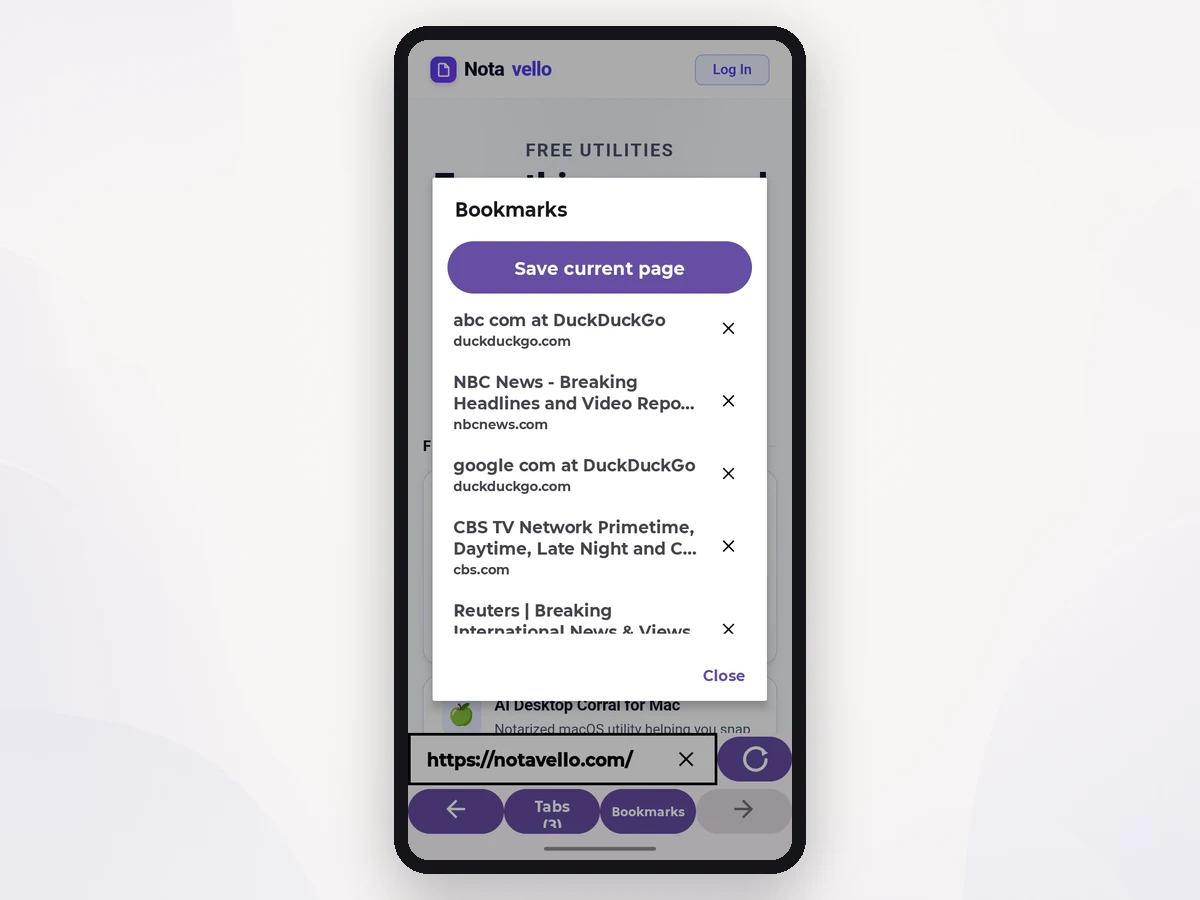
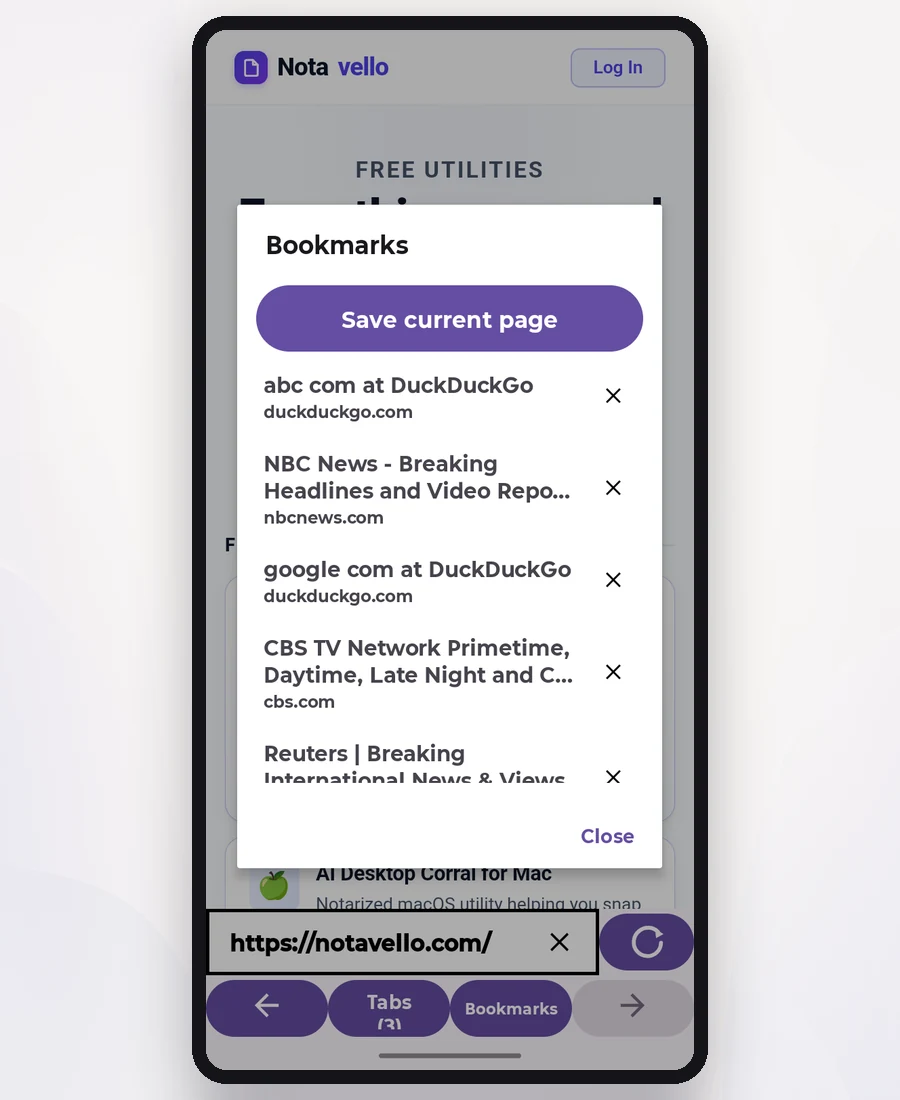
Improve Koga page copy and screenshots

diff --git a/tools/koga/index.html b/tools/koga/index.html
@@ -23,8 +23,9 @@
     <nav aria-label="Koga navigation">
       <a href="#features">Features</a>
       <a href="#screenshots">Screenshots</a>
-      <a href="privacy.html">Privacy</a>
-      <a href="support.html">Support</a>
+      <a href="/tools/koga/privacy.html">Privacy</a>
+      <a href="/tools/koga/support.html">Support</a>
+      <a href="/pages/contact.html">Contact</a>
     </nav>
   </header>
 
@@ -33,11 +34,7 @@
       <div class="hero-copy">
         <p class="eyebrow">An Android browser from Notavello</p>
         <h1>Simple<br>browsing.</h1>
-        <p class="lede">
-          Koga is a clean, straightforward browser with tabs, bookmarks,
-          downloads, file uploads, and a compact interface that leaves more
-          room for the web.
-        </p>
+        <p class="lede">Koga is a clean, straightforward browser that keeps tabs, bookmarks, downloads, uploads, and navigation controls easy to reach.</p>
 
         <div class="actions">
           <a class="button primary disabled" href="#" aria-disabled="true">Coming soon</a>
@@ -63,7 +60,7 @@
       <div class="feature-grid">
         <article>
           <h3>Compact interface</h3>
-          <p>A space-saving address row keeps more of every webpage visible.</p>
+          <p>The address field and page controls stay together in one clear row, making everyday navigation easier.</p>
         </article>
 
         <article>
@@ -92,38 +89,48 @@
 
       <div class="shot-grid">
         <figure>
-          <img src="assets/screenshots/koga-browsing.webp"
-            alt="Koga browsing DuckDuckGo with the address field, Refresh button, and bottom navigation visible"
-            width="1200" height="900" loading="lazy">
+          <a class="shot-link" href="assets/screenshots/koga-browsing.webp" target="_blank" rel="noopener" aria-label="Open full-size compact browsing screenshot">
+            <img src="assets/screenshots/koga-browsing.webp"
+              alt="Koga browsing DuckDuckGo with the address field, Refresh button, and complete bottom navigation visible"
+              width="900" height="1100">
+          </a>
           <figcaption>Compact browsing</figcaption>
         </figure>
 
         <figure>
-          <img src="assets/screenshots/koga-tabs.webp"
-            alt="Koga tab manager showing three open tabs and the New tab control"
-            width="1200" height="900" loading="lazy">
+          <a class="shot-link" href="assets/screenshots/koga-tabs.webp" target="_blank" rel="noopener" aria-label="Open full-size tab management screenshot">
+            <img src="assets/screenshots/koga-tabs.webp"
+              alt="Koga tab manager showing three open tabs, close controls, and the New tab button"
+              width="900" height="1100">
+          </a>
           <figcaption>Simple tab management</figcaption>
         </figure>
 
         <figure>
-          <img src="assets/screenshots/koga-bookmarks.webp"
-            alt="Koga bookmarks panel showing saved pages and bookmark controls"
-            width="1200" height="900" loading="lazy">
+          <a class="shot-link" href="assets/screenshots/koga-bookmarks.webp" target="_blank" rel="noopener" aria-label="Open full-size bookmarks screenshot">
+            <img src="assets/screenshots/koga-bookmarks.webp"
+              alt="Koga bookmarks panel showing saved pages, remove controls, and Save current page"
+              width="900" height="1100">
+          </a>
           <figcaption>Bookmarks close at hand</figcaption>
         </figure>
       </div>
 
       <figure class="wide-shot">
-        <img src="assets/screenshots/koga-landscape.webp"
-          alt="Koga Browser in landscape with its compact single-row address controls and full bottom navigation"
-          width="1400" height="850" loading="lazy">
+        <a class="shot-link" href="assets/screenshots/koga-landscape.webp" target="_blank" rel="noopener" aria-label="Open full-size landscape screenshot">
+          <img src="assets/screenshots/koga-landscape.webp"
+            alt="Koga Browser in landscape with its single-row address controls and complete bottom navigation"
+            width="1400" height="850">
+        </a>
         <figcaption>Made for portrait and landscape</figcaption>
       </figure>
 
       <figure class="overview-shot">
-        <img src="assets/screenshots/koga-overview.webp"
-          alt="Overview of Koga browsing, tabs, bookmarks, and landscape layouts"
-          width="1600" height="1000" loading="lazy">
+        <a class="shot-link" href="assets/screenshots/koga-overview.webp" target="_blank" rel="noopener" aria-label="Open full-size Koga interface overview">
+          <img src="assets/screenshots/koga-overview.webp"
+            alt="Overview collage of Koga browsing, tabs, bookmarks, and landscape layouts"
+            width="1600" height="1000">
+        </a>
         <figcaption>One focused browser, across every view</figcaption>
       </figure>
     </section>
@@ -145,8 +152,9 @@
     <p>Part of <a href="../../">Notavello</a>.</p>
 
     <div class="footer-links">
-      <a href="privacy.html">Privacy</a>
-      <a href="support.html">Support</a>
+      <a href="/tools/koga/privacy.html">Privacy</a>
+      <a href="/tools/koga/support.html">Support</a>
+      <a href="/pages/contact.html">Contact</a>
     </div>
   </footer>
 

diff --git a/tools/koga/styles.css b/tools/koga/styles.css
@@ -290,8 +290,18 @@ h3 {
 
 .shot-grid {
   display: grid;
-  grid-template-columns: repeat(3, 1fr);
-  gap: 18px;
+  grid-template-columns: repeat(2, minmax(0, 1fr));
+  gap: 28px 22px;
+}
+
+.shot-link {
+  border-radius: 28px;
+  display: block;
+}
+
+.shot-link:focus-visible {
+  outline: 3px solid #6b50b6;
+  outline-offset: 4px;
 }
 
 .shot-grid img,
@@ -308,6 +318,11 @@ h3 {
 .wide-shot,
 .overview-shot {
   margin-top: 56px;
+}
+
+.wide-shot {
+  width: min(980px, 92%);
+  margin-inline: auto;
 }
 
 .overview-shot {

diff --git a/.github/scripts/generate-sitemap.js b/.github/scripts/generate-sitemap.js
@@ -27,12 +27,15 @@ const EXCLUDE_DIRS = new Set([
   'node_modules',
   'admin',     // Decap CMS, not a public page
   'versions',  // changelog / internal
+  'assets-raw', // ignored source assets and local browser-review profiles
 ]);
 
 // Standalone .html pages that are real pages but aren't named index.html.
 // Map:  file path in repo  ->  clean URL path on the live site.
 const EXTRA_PAGES = {
   'login.html': '/login/',
+  'tools/koga/privacy.html': '/tools/koga/privacy.html',
+  'tools/koga/support.html': '/tools/koga/support.html',
 };
 
 const root = process.cwd();

diff --git a/index.html b/index.html
@@ -201,7 +201,7 @@ body {
   <h2 class="section-label">Core Web & Mobile Applications</h2>
   <div class="card-grid">
 
-    <a class="tool-card card--featured" href="tools/koga/">
+    <a class="tool-card card--featured" href="/tools/koga/">
       <span class="card-badge">Coming soon</span>
       <div class="card-top">
         <div class="tool-card-icon"><img src="tools/koga/assets/icons/koga-mark.svg" alt="" width="30" height="30"></div>

diff --git a/tools/koga/README.md b/tools/koga/README.md
@@ -21,9 +21,9 @@ https://notavello.com/tools/koga/
 - `script.js` — disabled release-button behavior
 - `assets/icons/koga-mark.svg` — Koga mark
 - `assets/screenshots/koga-hero.webp` — 1600 × 1100 hero composition
-- `assets/screenshots/koga-browsing.webp` — 1200 × 900 compact browsing feature
-- `assets/screenshots/koga-tabs.webp` — 1200 × 900 tabs feature
-- `assets/screenshots/koga-bookmarks.webp` — 1200 × 900 bookmarks feature
+- `assets/screenshots/koga-browsing.webp` — 900 × 1100 compact browsing feature
+- `assets/screenshots/koga-tabs.webp` — 900 × 1100 tabs feature
+- `assets/screenshots/koga-bookmarks.webp` — 900 × 1100 bookmarks feature
 - `assets/screenshots/koga-landscape.webp` — 1400 × 850 landscape feature
 - `assets/screenshots/koga-overview.webp` — 1600 × 1000 multi-screen overview
 

diff --git a/tools/koga/asset-production-report.md b/tools/koga/asset-production-report.md
@@ -20,9 +20,9 @@ Android status bars were cropped from the marketing compositions. Source images 
 | Output | Dimensions | Processing | File size |
 |---|---:|---|---:|
 | `assets/screenshots/koga-hero.webp` | 1600 × 1100 | Status-bar crop, large centered portrait device frame, soft shadow, minimal neutral background, WebP optimization | 34,992 bytes |
-| `assets/screenshots/koga-browsing.webp` | 1200 × 900 | Status-bar crop, centered portrait device frame, soft shadow, neutral background, WebP optimization | 27,048 bytes |
-| `assets/screenshots/koga-tabs.webp` | 1200 × 900 | Status-bar crop, centered portrait device frame, soft shadow, neutral background, WebP optimization | 24,872 bytes |
-| `assets/screenshots/koga-bookmarks.webp` | 1200 × 900 | Status-bar crop, centered portrait device frame, soft shadow, neutral background, WebP optimization | 36,114 bytes |
+| `assets/screenshots/koga-browsing.webp` | 900 × 1100 | Status-bar crop, enlarged centered portrait device frame, reduced outer background, soft shadow, neutral background, WebP optimization | 33,842 bytes |
+| `assets/screenshots/koga-tabs.webp` | 900 × 1100 | Status-bar crop, enlarged centered portrait device frame, reduced outer background, soft shadow, neutral background, WebP optimization | 30,464 bytes |
+| `assets/screenshots/koga-bookmarks.webp` | 900 × 1100 | Status-bar crop, enlarged centered portrait device frame, reduced outer background, soft shadow, neutral background, WebP optimization | 45,390 bytes |
 | `assets/screenshots/koga-landscape.webp` | 1400 × 850 | Status-bar crop, centered landscape device frame, soft shadow, neutral background, WebP optimization | 40,548 bytes |
 | `assets/screenshots/koga-overview.webp` | 1600 × 1000 | Three real portrait screens and one real landscape screen arranged as a device collage, soft shadows, neutral background, WebP optimization | 97,652 bytes |
 